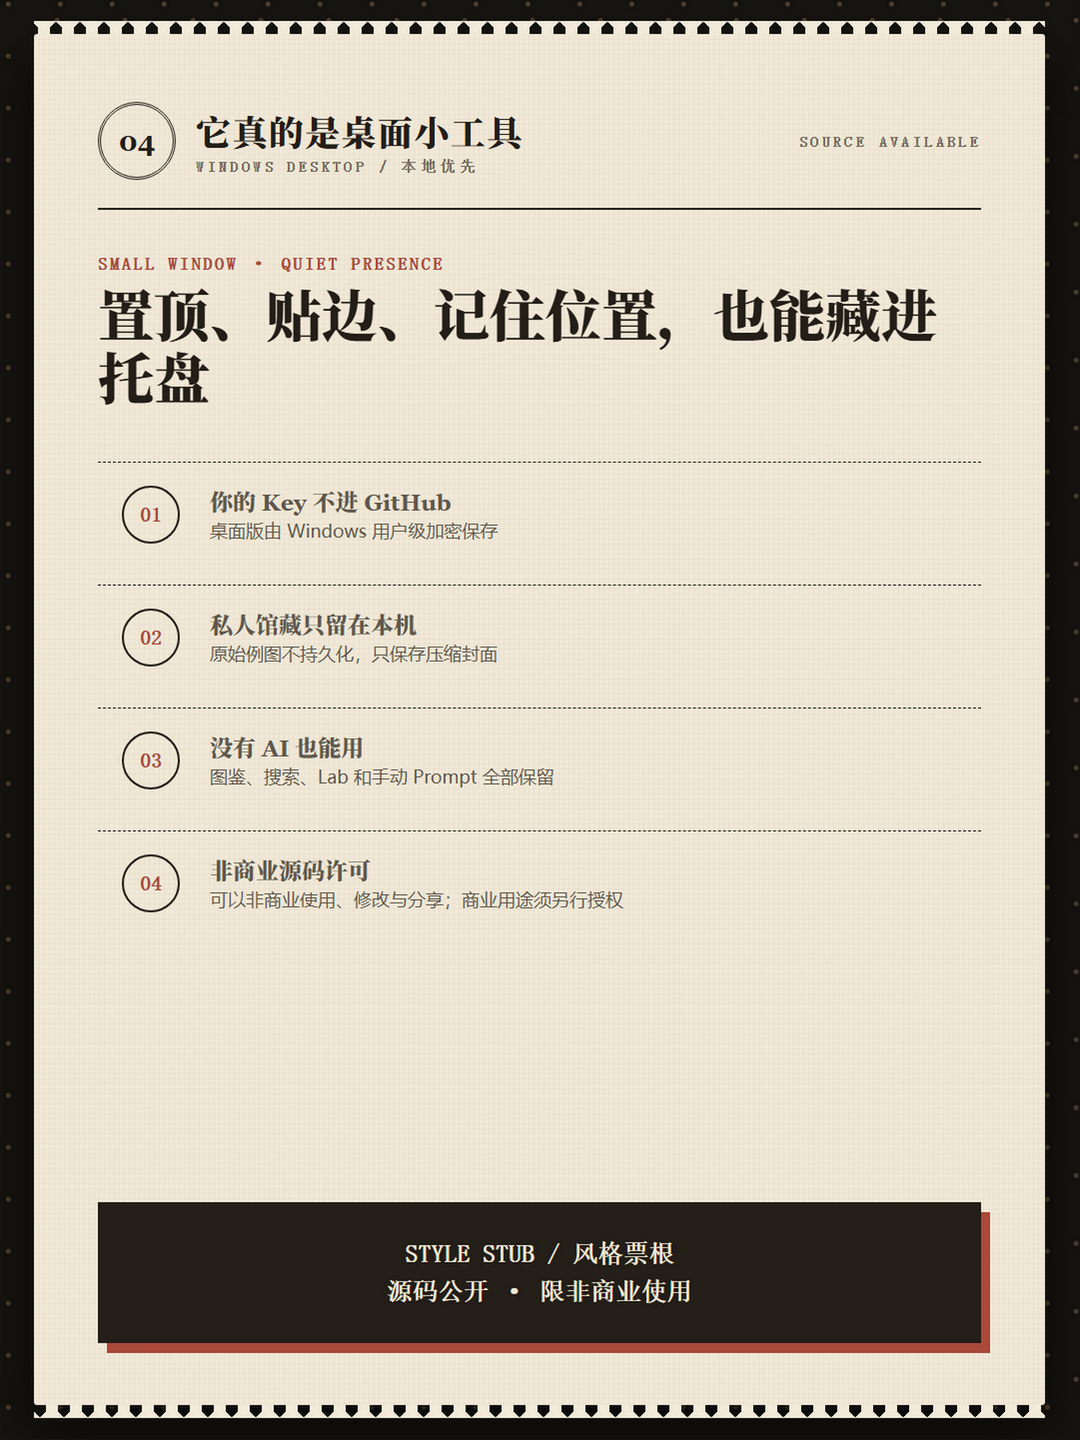
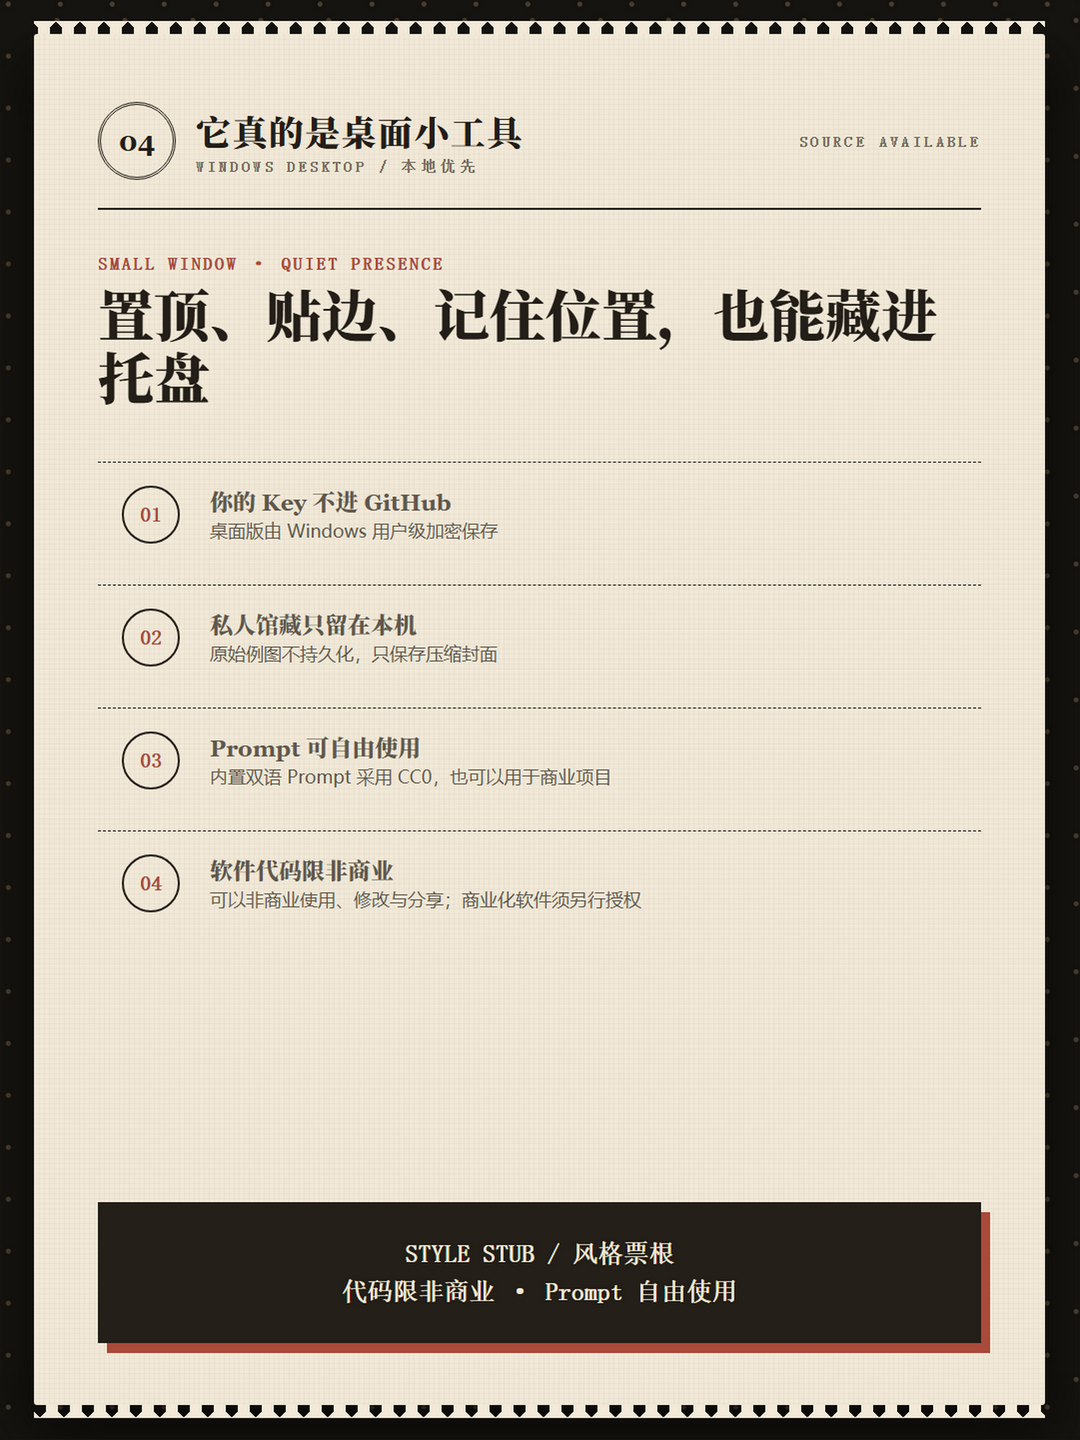
Clarify free use of prompt content

diff --git a/marketing/xiaohongshu/cards.html b/marketing/xiaohongshu/cards.html
@@ -54,7 +54,7 @@
   <section class="slide" data-slide="2"><div class="paper">
     <div class="mast"><div class="brand"><span class="seal">01</span><span><b>查懂，也能直接拿去用</b><small>CATALOG / 图鉴</small></span></div><span class="issue">35 TICKETS</span></div>
     <p class="kicker">LOOK UP · OPEN · ONE-CLICK COPY</p><h2>打开票根，一键复制完整中英文 UI Prompt</h2>
-    <div class="feature-grid"><div class="feature"><b>不只是风格名</b><span>例图、视觉机制、设计规则和避坑项一起讲清楚</span></div><div class="feature"><b>双语一键复制</b><span>中文方便理解与调整，英文可直接交给 AI 生成界面</span></div></div>
+    <div class="feature-grid"><div class="feature"><b>不只是风格名</b><span>例图、视觉机制、设计规则和避坑项一起讲清楚</span></div><div class="feature"><b>双语一键复制</b><span>Prompt 采用 CC0，可自由修改并用于商业项目</span></div></div>
     <div class="split-shots"><img class="shot left" src="../../docs/assets/catalog.png"><img class="shot right" src="../../docs/assets/detail.png"></div>
   </div></section>
   <section class="slide" data-slide="3"><div class="paper">
@@ -70,8 +70,8 @@
   <section class="slide" data-slide="5"><div class="paper">
     <div class="mast"><div class="brand"><span class="seal">04</span><span><b>它真的是桌面小工具</b><small>WINDOWS DESKTOP / 本地优先</small></span></div><span class="issue">SOURCE AVAILABLE</span></div>
     <p class="kicker">SMALL WINDOW · QUIET PRESENCE</p><h2>置顶、贴边、记住位置，也能藏进托盘</h2>
-    <div class="privacy"><div><i class="num">01</i><span><b>你的 Key 不进 GitHub</b><br>桌面版由 Windows 用户级加密保存</span></div><div><i class="num">02</i><span><b>私人馆藏只留在本机</b><br>原始例图不持久化，只保存压缩封面</span></div><div><i class="num">03</i><span><b>没有 AI 也能用</b><br>图鉴、搜索、Lab 和手动 Prompt 全部保留</span></div><div><i class="num">04</i><span><b>非商业源码许可</b><br>可以非商业使用、修改与分享；商业用途须另行授权</span></div></div>
-    <div class="open">STYLE STUB / 风格票根<br>源码公开 · 限非商业使用</div>
+    <div class="privacy"><div><i class="num">01</i><span><b>你的 Key 不进 GitHub</b><br>桌面版由 Windows 用户级加密保存</span></div><div><i class="num">02</i><span><b>私人馆藏只留在本机</b><br>原始例图不持久化，只保存压缩封面</span></div><div><i class="num">03</i><span><b>Prompt 可自由使用</b><br>内置双语 Prompt 采用 CC0，也可以用于商业项目</span></div><div><i class="num">04</i><span><b>软件代码限非商业</b><br>可以非商业使用、修改与分享；商业化软件须另行授权</span></div></div>
+    <div class="open">STYLE STUB / 风格票根<br>代码限非商业 · Prompt 自由使用</div>
   </div></section>
   <script>const n=new URLSearchParams(location.search).get('slide')||'1';document.querySelectorAll('.slide').forEach(el=>el.style.display=el.dataset.slide===n?'block':'none');</script>
 </body>

diff --git a/scripts/capture-assets.js b/scripts/capture-assets.js
@@ -4,10 +4,13 @@ const os = require('os');
 const { app, BrowserWindow } = require('electron');
 const { startGateway } = require('../server/gateway');
 
+app.disableHardwareAcceleration();
+
 const ROOT = path.resolve(__dirname, '..');
 const APP_ASSETS = path.join(ROOT, 'docs', 'assets');
 const XHS_ASSETS = path.join(ROOT, 'marketing', 'xiaohongshu');
 const CAPTURE_PROFILE = path.join(os.tmpdir(), 'style-stub-public-capture');
+const XHS_ONLY = process.argv.includes('--xhs-only');
 
 function demoCover() {
   const png = fs.readFileSync(path.join(APP_ASSETS, 'catalog.png'));
@@ -127,7 +130,7 @@ app.whenReady().then(async () => {
   let appCaptureWindow;
   try {
     server = await startGateway({ port: 0, quiet: true });
-    appCaptureWindow = await captureAppScreens(server.address().port);
+    if (!XHS_ONLY) appCaptureWindow = await captureAppScreens(server.address().port);
     await captureXhsCards(server.address().port);
     console.log('[Style Stub] public screenshots generated');
   } finally {

diff --git a/PROMPT_LICENSE.md b/PROMPT_LICENSE.md
@@ -1,0 +1,26 @@
+# Prompt Content License / Prompt 内容许可
+
+Style Stub uses separate terms for its software and its prompt content.
+
+## Built-in prompts
+
+The original Chinese and English prompt text stored in the `promptZh` and `promptEn` fields of [`data/styles.js`](data/styles.js) is dedicated to the public domain under [CC0 1.0 Universal](https://creativecommons.org/publicdomain/zero/1.0/).
+
+You may copy, modify, translate, publish and use those prompt texts for any purpose, including commercial products and paid client work. Attribution is appreciated but not required.
+
+`data/styles.js` also contains definitions, metadata and software-readable structure. This CC0 exception applies only to the text values of `promptZh` and `promptEn`. It does not apply to the application code, UI, CSS specimens, screenshots, illustrations, project name or branding, which remain covered by the repository's [PolyForm Noncommercial License 1.0.0](LICENSE) and applicable third-party rights.
+
+## User and AI-generated prompts
+
+Style Stub claims no ownership over prompt text entered by users or generated for users from their own inputs, and imposes no additional restriction on how users apply or commercialize that output.
+
+Users remain responsible for applicable law, rights in source images and other input material, and the terms of any AI provider they choose to use. This statement cannot grant rights in third-party material.
+
+---
+
+Style Stub 的软件代码与 Prompt 内容采用不同许可。
+
+- [`data/styles.js`](data/styles.js) 中 `promptZh` 与 `promptEn` 字段内的原创中英文 Prompt 文本采用 [CC0 1.0 Universal](https://creativecommons.org/publicdomain/zero/1.0/)。任何人都可以复制、修改、翻译、发布，并用于商业或非商业项目；欢迎署名，但不强制要求。
+- CC0 例外只适用于上述两个字段的 Prompt 文本，不包括应用代码、界面、CSS 样张、截图、插画、项目名称和品牌。这些内容仍受仓库的 [PolyForm Noncommercial License 1.0.0](LICENSE) 及相关第三方权利约束。
+- Style Stub 不主张用户自行录入或根据用户输入生成的 Prompt 的所有权，也不会对这些输出的使用或商业化施加额外限制。
+- 用户仍需自行确认适用法律、输入图片与素材的权利，以及所选 AI 提供商的条款。本声明无法授予任何第三方内容的权利。

diff --git a/README.md b/README.md
@@ -84,10 +84,10 @@ docs/               产品、架构、AI 与许可说明
 
 ## License
 
-当前 `main` 分支及后续版本采用 [PolyForm Noncommercial License 1.0.0](LICENSE)，版权所有 © 2026 `fishwithoctopus`。
+本项目采用分层许可：
 
-- 允许符合许可证条款的个人学习、研究、非商业使用、修改与再分发。
-- 商业使用、收费服务、付费客户项目或其他预期商业用途不在公共许可证授权范围内；如有需要，须另行取得版权所有者的书面许可。
-- 这是一项源码公开的非商业许可证，不是 OSI 定义下的开源许可证。
+- **软件与视觉资产：** 当前 `main` 分支及后续版本采用 [PolyForm Noncommercial License 1.0.0](LICENSE)，版权所有 © 2026 `fishwithoctopus`。允许符合条款的非商业使用、修改与再分发；应用代码、界面、CSS 样张或桌面程序的商业使用须另行取得书面许可。
+- **内置 Prompt：** [`data/styles.js`](data/styles.js) 中 `promptZh` 与 `promptEn` 字段内的原创中英文 Prompt 采用 [CC0 1.0](PROMPT_LICENSE.md)，可以复制、修改、翻译并用于商业或非商业项目，无需强制署名。
+- **用户与 AI 生成的 Prompt：** Style Stub 不主张用户输入或根据用户输入生成的 Prompt 的所有权，也不对其使用或商业化施加额外限制；用户仍需自行确认输入素材权利、适用法律与 AI 提供商条款。
 
-许可变更不追溯：已经发布的 `v0.5.0` 标签与 Windows 便携版继续适用其发布时附带的 MIT License。
+软件许可证是一项源码公开的非商业许可证，不是 OSI 定义下的开源许可证。完整边界见 [Prompt 内容许可](PROMPT_LICENSE.md) 与 [NOTICE](NOTICE.md)。许可变更不追溯：已经发布的 `v0.5.0` 标签与 Windows 便携版继续适用其发布时附带的 MIT License。

diff --git a/CONTRIBUTING.md b/CONTRIBUTING.md
@@ -39,7 +39,11 @@ npm run desktop
 
 ## 贡献许可
 
-提交贡献即表示你确认自己有权提供相关内容，并同意该贡献按照项目当前的 [PolyForm Noncommercial License 1.0.0](LICENSE) 公开。该公共许可证不授权商业使用；如涉及其他授权安排，必须在合并前与版权所有者书面确认。
+提交贡献即表示你确认自己有权提供相关内容，并同意：
+
+- 对 `data/styles.js` 中 `promptZh` 与 `promptEn` 字段提交的原创 Prompt 文本按照 [CC0 1.0](PROMPT_LICENSE.md) 提供，可被任何人用于商业或非商业目的；
+- 其他代码、界面、CSS 样张、文档与项目资产按照项目当前的 [PolyForm Noncommercial License 1.0.0](LICENSE) 公开，不授权商业使用；
+- 如贡献中包含第三方内容或需要不同授权，必须在合并前明确说明并取得相应许可。
 
 ## 个人数据与素材
 

diff --git a/docs/DECISION_LOG.md b/docs/DECISION_LOG.md
@@ -74,3 +74,9 @@
 原因：作者希望保留社区学习、研究、修改与分享的空间，同时不授权他人将项目直接用于收费产品、付费客户项目或其他预期商业用途。
 
 兼容边界：许可变更不追溯。已经发布的 `v0.5.0` 标签与 Windows 便携版继续适用其发布时附带的 MIT License。
+
+# 2026-07-21：Prompt 内容与软件采用分层许可
+
+决定：软件代码、界面、CSS 样张与桌面程序继续采用 PolyForm Noncommercial 1.0.0；`data/styles.js` 中 `promptZh` 与 `promptEn` 字段内的原创 Prompt 文本采用 CC0 1.0，可自由修改并用于商业或非商业项目。Style Stub 不主张用户输入或根据用户输入生成的 Prompt 的所有权，也不增加额外使用限制。
+
+原因：非商业限制针对 Style Stub 软件本身，不应阻止使用者把查到、复制或生成的 Prompt 用于真实设计工作或付费客户项目。明确字段范围可以开放 Prompt，同时避免把应用代码、视觉资产和品牌一并改为自由商用。

diff --git a/docs/OPEN_SOURCE.md b/docs/OPEN_SOURCE.md
@@ -8,7 +8,9 @@ Style Stub 以 GitHub 公共仓库发布源代码、原创词条文本、原创 
 
 当前 `main` 分支及后续版本采用 [PolyForm Noncommercial License 1.0.0](../LICENSE)。该许可证允许符合条款的非商业使用、修改与再分发，但不授权商业使用。商业用途必须另行取得版权所有者的书面许可。
 
-因此本项目应描述为“源码公开、限非商业使用”，而不是 OSI 定义下的开源软件。已经发布的 `v0.5.0` 标签与 Windows 便携版仍保留其发布时的 MIT License，许可变更不追溯。
+内置 Prompt 单独开放：[`data/styles.js`](../data/styles.js) 中 `promptZh` 与 `promptEn` 字段内的原创 Prompt 文本采用 [CC0 1.0](../PROMPT_LICENSE.md)，允许自由复制、修改、翻译和商用且不强制署名。Style Stub 对用户自行录入或根据用户输入生成的 Prompt 不主张所有权，也不增加额外使用限制。
+
+因此准确表述是“软件源码公开、限非商业使用；内置 Prompt 可自由使用”。软件部分不是 OSI 定义下的开源软件。已经发布的 `v0.5.0` 标签与 Windows 便携版仍保留其发布时的 MIT License，许可变更不追溯。
 
 第三方名称、商标与平台案例不因此获得授权；它们仅用于识别和设计研究，详见 [NOTICE.md](../NOTICE.md)。未经许可的第三方参考图不随仓库分发。
 
@@ -20,6 +22,7 @@ Style Stub 以 GitHub 公共仓库发布源代码、原创词条文本、原创 
 - [x] Issue 与 Pull Request 模板
 - [x] 忽略本地数据、密钥和构建产物
 - [x] PolyForm Noncommercial 1.0.0 与 npm 许可元数据
+- [x] 内置 Prompt 的 CC0 1.0 例外与用户输出说明
 - [x] Windows 免安装构建
 - [x] 成品截图
 - [x] 项目名：Style Stub / 风格票根

diff --git a/CHANGELOG.md b/CHANGELOG.md
@@ -6,6 +6,8 @@ All notable changes to Style Stub are documented here.
 
 - Changed the license for the current source tree and future versions to PolyForm Noncommercial 1.0.0.
 - Clarified that commercial use requires separate written permission from the copyright holder.
+- Dedicated the built-in `promptZh` and `promptEn` texts under CC0 1.0 so prompts remain freely usable in commercial and noncommercial projects.
+- Clarified that Style Stub claims no ownership over user-entered or user-generated prompt output and imposes no additional usage restriction on it.
 - Preserved the MIT License for the already-published `v0.5.0` tag and Windows release; the change is not retroactive.
 
 ## 0.5.0 — 2026-07-20

diff --git a/NOTICE.md b/NOTICE.md
@@ -4,6 +4,8 @@ Required Notice: Copyright 2026 fishwithoctopus.
 
 The current source tree and future versions are distributed under the PolyForm Noncommercial License 1.0.0. Commercial use is not granted by the public license and requires separate written permission from the copyright holder. The previously published `v0.5.0` tag and Windows release remain available under the MIT License included with that release.
 
+Prompt exception: the original prompt text in the `promptZh` and `promptEn` fields of `data/styles.js` is dedicated under CC0 1.0 Universal and may be used for commercial or noncommercial purposes. Style Stub claims no ownership over user-entered prompts or prompts generated for users from their own inputs, and imposes no additional restriction on those outputs. See `PROMPT_LICENSE.md` for the exact scope. This exception does not apply to application code, UI, CSS specimens, screenshots, illustrations, the project name or branding.
+
 Style Stub includes descriptive entries about historical design movements, platform design languages and contemporary product interfaces.
 
 Apple, macOS, iOS, Vercel, Kimi, Claude, ChatGPT, Figma and other names mentioned in the public catalog are trademarks or product names of their respective owners. Their inclusion is for identification, commentary and design research only. This project is not affiliated with, endorsed by or sponsored by those owners.

diff --git a/marketing/xiaohongshu/POST.md b/marketing/xiaohongshu/POST.md
@@ -31,7 +31,7 @@
 
 它现在已经是一个真正的 Windows 桌面小工具：能置顶、贴边、记住位置，也能藏进系统托盘。个人馆藏只保存在本机；API Key 由 Windows 用户级加密保存，不会进 GitHub。
 
-现在源码已经公开，后续版本采用 **PolyForm Noncommercial 1.0.0**：欢迎大家在非商业前提下使用、修改、补票根、修定义和测试 Prompt；商业使用需要另外取得书面许可。此前发布的 v0.5.0 仍保留原 MIT License。
+现在源码已经公开，后续版本的软件代码采用 **PolyForm Noncommercial 1.0.0**：欢迎大家在非商业前提下使用、修改、补票根和修定义，商业化软件本身需要另外取得书面许可。票根里的原创中英文 Prompt 单独采用 **CC0 1.0**，可以自由复制、修改，也可以直接用于商业项目；用户自己录入或生成的 Prompt，Style Stub 同样不增加额外限制。此前发布的 v0.5.0 仍保留原 MIT License。
 
 ## 标签
 